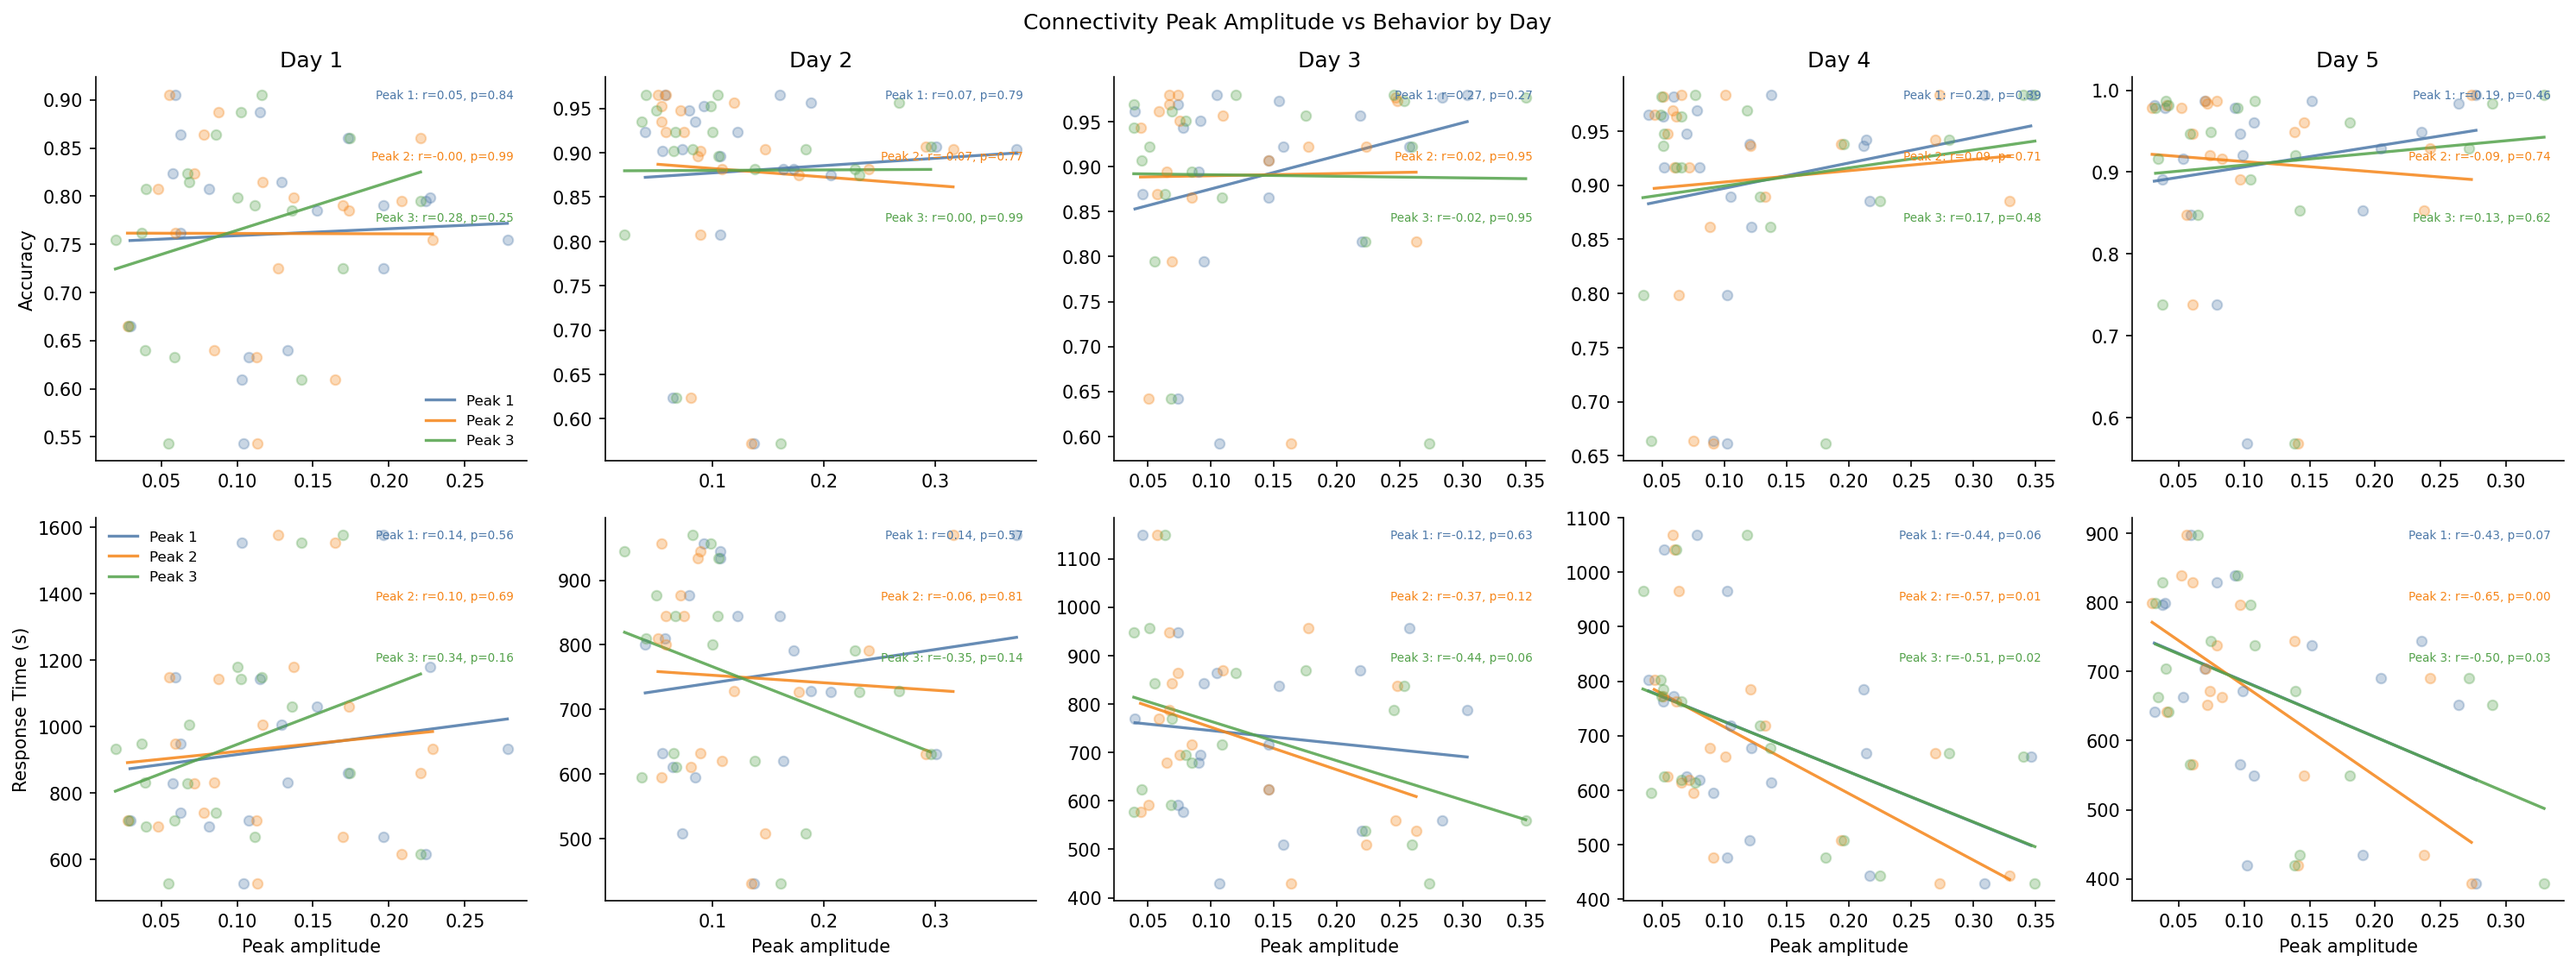
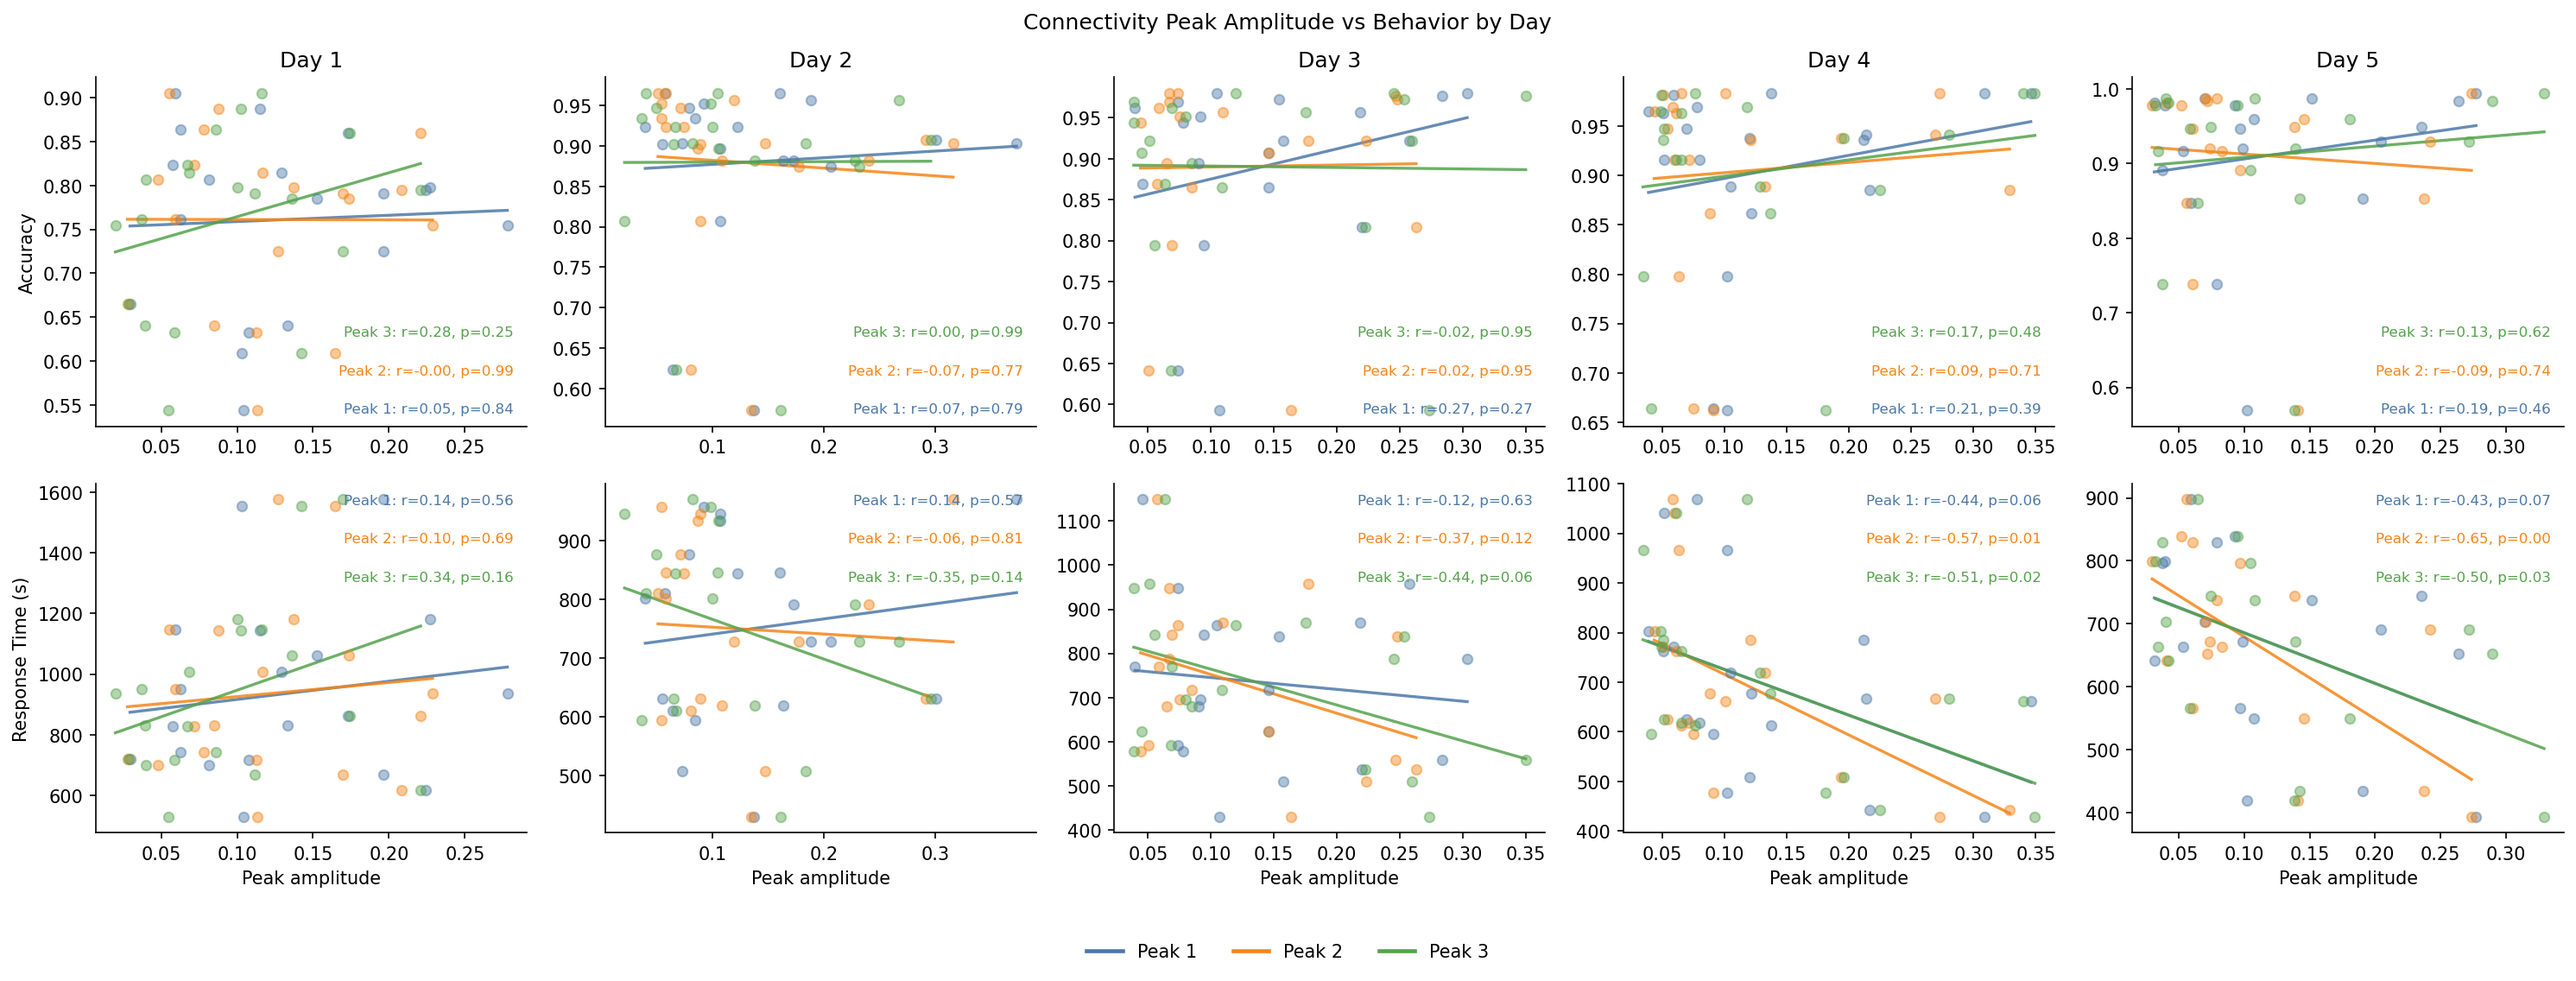
.

diff --git a/code/presentation_figure.py b/code/presentation_figure.py
@@ -1245,14 +1245,15 @@ def plot_presentation_connectivity_peak_day(output_dir, figures_dir):
 
 
 def plot_presentation_connectivity_peak_behavior(output_dir, figures_dir):
+    from matplotlib.lines import Line2D
+
     peak_df = subject_day_connectivity_peaks(output_dir)
     behavior = load_behavior()
     merged = peak_df.merge(behavior, on=["subject", "day"], how="inner")
-    peak_color = dict(zip(PEAK_LABELS, PEAK_COLORS))
 
     measures = [
-        ("accuracy", "Accuracy"),
-        ("rt", "Response Time (s)"),
+        ("accuracy", "Accuracy",      "lower right"),
+        ("rt",       "Response Time (s)", "upper right"),
     ]
     fig, axes = plt.subplots(
         len(measures), len(DAYS),
@@ -1260,7 +1261,11 @@ def plot_presentation_connectivity_peak_behavior(output_dir, figures_dir):
         squeeze=False,
     )
 
-    for row_i, (measure_col, measure_label) in enumerate(measures):
+    annot_spacing = 0.11
+    annot_fontsize = 8.0
+
+    for row_i, (measure_col, measure_label, annot_corner) in enumerate(measures):
+        annot_top = annot_corner == "upper right"
         for col_i, day in enumerate(DAYS):
             ax = axes[row_i, col_i]
             d_day = merged[merged["day"] == day]
@@ -1269,32 +1274,48 @@ def plot_presentation_connectivity_peak_behavior(output_dir, figures_dir):
                 g = d_day[d_day["peak"] == peak]
                 x = g["amplitude"].to_numpy(float)
                 y = g[measure_col].to_numpy(float)
-                ax.scatter(x, y, color=color, s=30, alpha=0.30, zorder=3)
+                ax.scatter(x, y, color=color, s=30, alpha=0.45, zorder=3)
                 reg = _regression_line(x, y)
                 if reg is not None:
                     x_line, y_line, r, p = reg
-                    ax.plot(x_line, y_line, color=color, linewidth=1.6, alpha=0.85,
-                            label=peak if col_i == 0 else None)
+                    ax.plot(x_line, y_line, color=color, linewidth=1.6, alpha=0.85)
                     annot_lines.append((peak, color, r, p))
             for k, (peak, color, r, p) in enumerate(annot_lines):
+                if annot_top:
+                    y_pos = 0.97 - k * annot_spacing
+                    va = "top"
+                else:
+                    y_pos = 0.03 + k * annot_spacing
+                    va = "bottom"
                 ax.text(
-                    0.97, 0.97 - k * 0.16,
+                    0.97, y_pos,
                     f"{peak}: r={r:.2f}, p={p:.2f}",
                     transform=ax.transAxes,
-                    fontsize=6.5, color=color,
-                    ha="right", va="top",
+                    fontsize=annot_fontsize, color=color,
+                    ha="right", va=va,
                 )
             if col_i == 0:
                 ax.set_ylabel(measure_label)
-                ax.legend(frameon=False, fontsize=8)
             if row_i == 0:
                 ax.set_title(f"Day {day}")
             if row_i == len(measures) - 1:
                 ax.set_xlabel("Peak amplitude")
             setup_axis(ax)
 
+    legend_handles = [
+        Line2D([0], [0], color=color, linewidth=2.2, label=peak)
+        for peak, color in zip(PEAK_LABELS, PEAK_COLORS)
+    ]
     fig.suptitle("Connectivity Peak Amplitude vs Behavior by Day", fontsize=12)
-    fig.tight_layout()
+    fig.tight_layout(rect=[0, 0.07, 1, 1])
+    fig.legend(
+        handles=legend_handles,
+        loc="lower center",
+        ncol=3,
+        frameon=False,
+        fontsize=10,
+        bbox_to_anchor=(0.5, 0.0),
+    )
     fig_path = figures_dir / "presentation_connectivity_peak_behavior.png"
     fig.savefig(fig_path, dpi=150, bbox_inches="tight")
     plt.close(fig)
